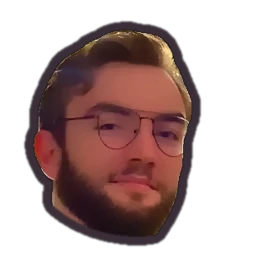
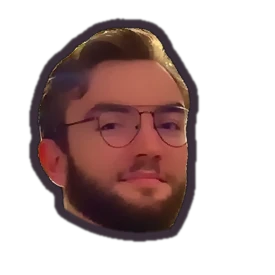
Level and centre the head cut-outs on the stickman bodies
Claude-Session: https://claude.ai/code/session_01PAEqFaGGatY23GmokTMZKB

diff --git a/anniversary/content.js b/anniversary/content.js
@@ -15,7 +15,7 @@ window.CONTENT = {
   // The two doodle characters. "a" is you, "b" is him. Make them look like the two of you:
   //   face:      a head cut-out with a see-through background, for example "photos/face-her.webp", shown instead of the drawn face.
   //              Remove the face line to go back to the drawn face and the hair, glasses and beard options below.
-  //   faceY:     where the middle of the face sits in the cut-out, 0 (top) to 1 (bottom). Keep 0.5185 for the supplied cut-outs.
+  //   faceY:     where the eye line sits in the cut-out, 0 (top) to 1 (bottom). Keep 0.4599 for the supplied cut-outs.
   //   outfit:    "dress" or "tee", for the stickman body that goes under a face photo
   //   color:     body colour (the colour of the outfit)
   //   hair:      "long", "short", "curly", "bun", "tuft" or "none"
@@ -26,8 +26,8 @@ window.CONTENT = {
   //   sprout:    true or false (a little heart growing from the head)
   //   height:    1 is normal, 1.1 is a bit taller, 0.92 a bit shorter
   characters: {
-    a: { face: "photos/face-her.webp", outfit: "dress", faceY: 0.5185, color: "#ffc2d1", hair: "long", hairColor: "#1d1a22", glasses: false, beard: false, bow: false, sprout: false, height: 1 },
-    b: { face: "photos/face-him.webp", outfit: "tee", faceY: 0.5185, color: "#bde0fe", hair: "short", hairColor: "#6b4a3a", glasses: true, beard: true, bow: false, sprout: false, height: 1.12 },
+    a: { face: "photos/face-her.webp", outfit: "dress", faceY: 0.4599, color: "#ffc2d1", hair: "long", hairColor: "#1d1a22", glasses: false, beard: false, bow: false, sprout: false, height: 1 },
+    b: { face: "photos/face-him.webp", outfit: "tee", faceY: 0.4599, color: "#bde0fe", hair: "short", hairColor: "#6b4a3a", glasses: true, beard: true, bow: false, sprout: false, height: 1.12 },
   },
 
   // Background song. It starts when the envelope is opened and pauses while a video plays.

diff --git a/anniversary/script.js b/anniversary/script.js
@@ -31,8 +31,8 @@
       // a stickman: the photo head on a drawn body, with a small outfit in the character's colour
       const dress = c.outfit === "dress", col = c.color;
       const body = dress
-        ? `<path fill="${col}" d="M50 66 L70 66 L87 117 L33 117Z" style="stroke-linejoin:round"/>`
-        : `<path fill="${col}" d="M47 66 L73 66 L72 101 L48 101Z" style="stroke-linejoin:round"/>`;
+        ? `<path fill="${col}" d="M50 63 L70 63 L87 117 L33 117Z" style="stroke-linejoin:round"/>`
+        : `<path fill="${col}" d="M47 63 L73 63 L72 101 L48 101Z" style="stroke-linejoin:round"/>`;
       const legs = dress
         ? `<g class="leg l"><path class="nofill" d="M51 117 L46 139 h-8"/></g><g class="leg r"><path class="nofill" d="M69 117 L74 139 h8"/></g>`
         : `<g class="leg l"><path class="nofill" d="M54 101 L48 139 h-8"/></g><g class="leg r"><path class="nofill" d="M66 101 L72 139 h8"/></g>`;
@@ -43,7 +43,7 @@
         <path class="arm l nofill" d="M${sx} 71 q-12 6 -16 27"/>
         <path class="arm r nofill" d="M${120 - sx} 71 q12 6 16 27"/>
         <path class="nofill" d="M60 60 V68"/></g>
-        <image class="headimg" href="${esc(c.face)}" x="16" y="${(40 - (c.faceY ?? 0.52) * 88).toFixed(1)}" width="88" height="88"/>
+        <image class="headimg" href="${esc(c.face)}" x="16" y="${(36 - (c.faceY ?? 0.46) * 88).toFixed(1)}" width="88" height="88"/>
       </g></svg>`;
     }
     return `<svg class="doodle" viewBox="0 -8 120 156" aria-hidden="true"><g transform="translate(60 138) scale(${h}) translate(-60 -138)">
